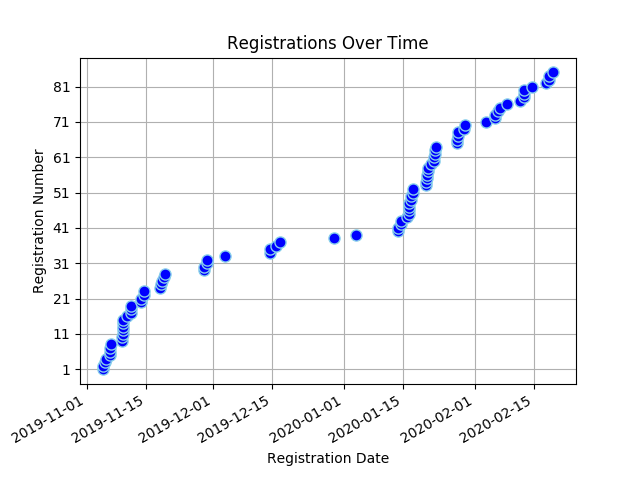
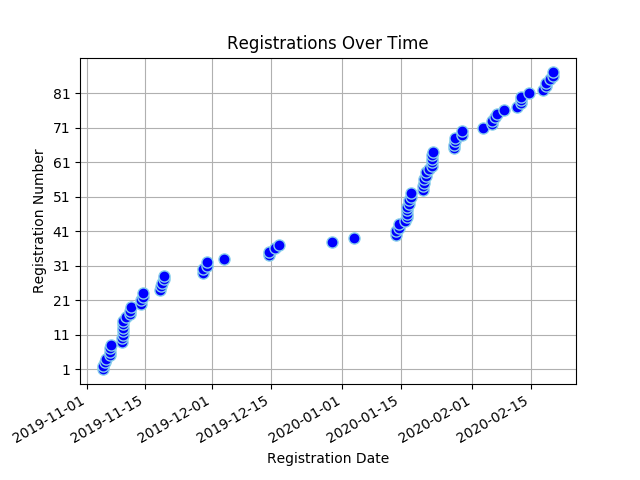
Registree stats backup on Thu Feb 20 08:55:29 SAST 2020

diff --git a/content/registrees/_index.md b/content/registrees/_index.md
@@ -3,7 +3,7 @@ title: Registration Stats
 draft: false
 ---
 
-<ul><li><strong>Number of Registrees</strong>: 85</li>
+<ul><li><strong>Number of Registrees</strong>: 87</li>
 
 <li><strong>Number of Clubs</strong>: 42</li>
 
@@ -30,6 +30,6 @@ draft: false
         </tr>
     </thead>
     <tbody>
-<tr><td>Linda Anderson</td><td>George</td></tr><tr><td>Valencia Beukes</td><td>Kuilsriver</td></tr><tr><td>Lyn Botha</td><td>Cowies Hill</td></tr><tr><td>Annette Bothma</td><td>Fish Hoek</td></tr><tr><td>Jose Braga Borges</td><td>Malmesbury</td></tr><tr><td>Nkandu Chapeshamano</td><td>Rustenburg</td></tr><tr><td>Lynnette Virginia Christians</td><td>Cape Of Good Hope</td></tr><tr><td>Sharon Cottle</td><td>Groote Schuur</td></tr><tr><td>Desiree Du Toit</td><td>Ramsgate</td></tr><tr><td>Charles Flanagan</td><td>Tokai</td></tr><tr><td>Julie Flanagan</td><td>Tokai</td></tr><tr><td>Allison Georges</td><td>Cape Of Good Hope</td></tr><tr><td>Valerie Graham</td><td>Nelspruit</td></tr><tr><td>Michael Graham</td><td>Nelspruit</td></tr><tr><td>Wendy Higgins</td><td>Wilro Park</td></tr><tr><td>Trevor Hobbs</td><td>North Durban</td></tr><tr><td>Avril Hobbs</td><td>North Durban</td></tr><tr><td>Jacqui Hocking</td><td>Midrand</td></tr><tr><td>Cliff Hocking</td><td>Midrand</td></tr><tr><td>Akinyemi Ismaila Tunde</td><td>Alberton</td></tr><tr><td>Dawid Jacobs</td><td>Durbanville</td></tr><tr><td>Jean Jacobs</td><td>Mitchells Plain</td></tr><tr><td>Brenda Joshua</td><td>Cape Of Good Hope</td></tr><tr><td>Charlotte Jubelin</td><td>Cape Of Good Hope</td></tr><tr><td>Pascal Kabangu</td><td>Cape Of Good Hope</td></tr><tr><td>Zwaai Krüger</td><td>Sedgefield</td></tr><tr><td>Bevil Lakay</td><td>Mitchells Plain</td></tr><tr><td>Paula Lang</td><td>Gordons Bay</td></tr><tr><td>James Malcolm Lang</td><td>Gordons Bay</td></tr><tr><td>Heather Lee</td><td>Cape Of Good Hope</td></tr><tr><td>Darrol Lee</td><td>Cape Of Good Hope</td></tr><tr><td>Nick Maré</td><td>Benoni Lakes</td></tr><tr><td>Beaulieu Maré</td><td>Benoni Lakes</td></tr><tr><td>Lance Maytham</td><td>Bredasdorp</td></tr><tr><td>Mark Meltzer</td><td>The Wilds</td></tr><tr><td>Roy Michas</td><td>Midrand</td></tr><tr><td>Dawn Michas</td><td>Midrand</td></tr><tr><td>Patrick Mills</td><td>Centurion</td></tr><tr><td>Bernice Mills</td><td>Centurion</td></tr><tr><td>Brian Moses</td><td>Cape Of Good Hope</td></tr><tr><td>Alain Moulounda</td><td>Cape Of Good Hope</td></tr><tr><td>Tillie Nel</td><td>Eden</td></tr><tr><td>Pieter Nel</td><td>George</td></tr><tr><td>Michael Newlands</td><td>Port Alfred</td></tr><tr><td>Ramona Nulliah</td><td>Durban Host</td></tr><tr><td>Gary Nulliah</td><td>Durban Host</td></tr><tr><td>Jessica Philander</td><td>Cape Of Good Hope</td></tr><tr><td>Gavin Polkinghorne</td><td>Kensington</td></tr><tr><td>Tracey Polkinghorne</td><td>Kensington</td></tr><tr><td>Yvonne  Maureen Poyo</td><td>Cape Of Good Hope</td></tr><tr><td>Karin Preston</td><td>Durban South</td></tr><tr><td>Mark Rossouw</td><td>Tokai</td></tr><tr><td>Sharon Sampie</td><td>Bergvliet</td></tr><tr><td>Pinky Serobatse</td><td>(Partner in Service)</td></tr><tr><td>Susanna Helena Smit</td><td>Centurion</td></tr><tr><td>Herman Smit</td><td>Swellendam</td></tr><tr><td>Berdine Smit</td><td>(Partner in Service)</td></tr><tr><td>Bennie Smith</td><td>Wellington</td></tr><tr><td>Rochelle Smith</td><td>Cape Of Good Hope</td></tr><tr><td>Jeff Smith</td><td>Port Shepstone</td></tr><tr><td>Pierre Theron</td><td>Midrand</td></tr><tr><td>Moira Theron</td><td>Midrand</td></tr><tr><td>Alex Tshikala</td><td>Athlone</td></tr><tr><td>Alistair Tuckett</td><td>Roodepoort Clearwater Cyber</td></tr><tr><td>Gail Tuckett</td><td>Roodepoort Clearwater Cyber</td></tr><tr><td>Rowan Tuckett</td><td>Roodepoort Clearwater Cyber</td></tr><tr><td>Neville Van Rensburg</td><td>Moorreesburg</td></tr><tr><td>Yolandi Van der Schyf</td><td>Midrand</td></tr><tr><td>Keith Weston</td><td>Scottburgh</td></tr><tr><td>Barbara Weston</td><td>Scottburgh</td></tr><tr><td>Joyce Wilcocks</td><td>Pretoria Jakaranda</td></tr><tr><td>Richard Williams</td><td>(Partner in Service)</td></tr><tr><td>Owolabi Williams Monzur</td><td>Badagry</td></tr><tr><td>Geila Wills</td><td>Cape Town</td></tr><tr><td>Patricia Wilson</td><td>Kingsburgh</td></tr><tr><td>Judy Young</td><td>Durbanville</td></tr><tr><td>Sydney van Heerden</td><td>Wilro Park</td></tr><tr><td>Sandy van Heerden</td><td>Wilro Park</td></tr><tr><td>Deon van Wulven</td><td>Tygerberg Hills</td></tr><tr><td>Lindie van Wyk</td><td>Pretoria Jakaranda</td></tr><tr><td>Vicki van Wyk</td><td>North Durban</td></tr><tr><td>Kim van Wyk</td><td>North Durban</td></tr><tr><td>Patricia van Wyk</td><td>Pretoria Jakaranda</td></tr><tr><td>Willie van Wyk</td><td>Midrand</td></tr><tr><td>Martha Maria van der Merwe</td><td>Malmesbury</td></tr>
+<tr><td>Linda Anderson</td><td>George</td></tr><tr><td>Valencia Beukes</td><td>Kuilsriver</td></tr><tr><td>Lyn Botha</td><td>Cowies Hill</td></tr><tr><td>Annette Bothma</td><td>Fish Hoek</td></tr><tr><td>Jose Braga Borges</td><td>Malmesbury</td></tr><tr><td>Nkandu Chapeshamano</td><td>Rustenburg</td></tr><tr><td>Lynnette Virginia Christians</td><td>Cape Of Good Hope</td></tr><tr><td>Sharon Cottle</td><td>Groote Schuur</td></tr><tr><td>Desiree Du Toit</td><td>Ramsgate</td></tr><tr><td>Charles Flanagan</td><td>Tokai</td></tr><tr><td>Julie Flanagan</td><td>Tokai</td></tr><tr><td>Allison Georges</td><td>Cape Of Good Hope</td></tr><tr><td>Valerie Graham</td><td>Nelspruit</td></tr><tr><td>Michael Graham</td><td>Nelspruit</td></tr><tr><td>Wendy Higgins</td><td>Wilro Park</td></tr><tr><td>Trevor Hobbs</td><td>North Durban</td></tr><tr><td>Avril Hobbs</td><td>North Durban</td></tr><tr><td>Jacqui Hocking</td><td>Midrand</td></tr><tr><td>Cliff Hocking</td><td>Midrand</td></tr><tr><td>Akinyemi Ismaila Tunde</td><td>Alberton</td></tr><tr><td>Dawid Jacobs</td><td>Durbanville</td></tr><tr><td>Jean Jacobs</td><td>Mitchells Plain</td></tr><tr><td>Brenda Joshua</td><td>Cape Of Good Hope</td></tr><tr><td>Marco Joubert</td><td>Alberton</td></tr><tr><td>Charlotte Jubelin</td><td>Cape Of Good Hope</td></tr><tr><td>Pascal Kabangu</td><td>Cape Of Good Hope</td></tr><tr><td>Zwaai Krüger</td><td>Sedgefield</td></tr><tr><td>Bevil Lakay</td><td>Mitchells Plain</td></tr><tr><td>Paula Lang</td><td>Gordons Bay</td></tr><tr><td>James Malcolm Lang</td><td>Gordons Bay</td></tr><tr><td>Heather Lee</td><td>Cape Of Good Hope</td></tr><tr><td>Darrol Lee</td><td>Cape Of Good Hope</td></tr><tr><td>Nick Maré</td><td>Benoni Lakes</td></tr><tr><td>Beaulieu Maré</td><td>Benoni Lakes</td></tr><tr><td>Lance Maytham</td><td>Bredasdorp</td></tr><tr><td>Mark Meltzer</td><td>The Wilds</td></tr><tr><td>Roy Michas</td><td>Midrand</td></tr><tr><td>Dawn Michas</td><td>Midrand</td></tr><tr><td>Patrick Mills</td><td>Centurion</td></tr><tr><td>Bernice Mills</td><td>Centurion</td></tr><tr><td>Brian Moses</td><td>Cape Of Good Hope</td></tr><tr><td>Alain Moulounda</td><td>Cape Of Good Hope</td></tr><tr><td>Tillie Nel</td><td>Eden</td></tr><tr><td>Pieter Nel</td><td>George</td></tr><tr><td>Michael Newlands</td><td>Port Alfred</td></tr><tr><td>Ramona Nulliah</td><td>Durban Host</td></tr><tr><td>Gary Nulliah</td><td>Durban Host</td></tr><tr><td>Jessica Philander</td><td>Cape Of Good Hope</td></tr><tr><td>Gavin Polkinghorne</td><td>Kensington</td></tr><tr><td>Tracey Polkinghorne</td><td>Kensington</td></tr><tr><td>Yvonne  Maureen Poyo</td><td>Cape Of Good Hope</td></tr><tr><td>Karin Preston</td><td>Durban South</td></tr><tr><td>Mark Rossouw</td><td>Tokai</td></tr><tr><td>Sharon Sampie</td><td>Bergvliet</td></tr><tr><td>Pinky Serobatse</td><td>(Partner in Service)</td></tr><tr><td>Susanna Helena Smit</td><td>Centurion</td></tr><tr><td>Herman Smit</td><td>Swellendam</td></tr><tr><td>Berdine Smit</td><td>(Partner in Service)</td></tr><tr><td>Bennie Smith</td><td>Wellington</td></tr><tr><td>Rochelle Smith</td><td>Cape Of Good Hope</td></tr><tr><td>Jeff Smith</td><td>Port Shepstone</td></tr><tr><td>Pierre Theron</td><td>Midrand</td></tr><tr><td>Moira Theron</td><td>Midrand</td></tr><tr><td>Alex Tshikala</td><td>Athlone</td></tr><tr><td>Alistair Tuckett</td><td>Roodepoort Clearwater Cyber</td></tr><tr><td>Gail Tuckett</td><td>Roodepoort Clearwater Cyber</td></tr><tr><td>Rowan Tuckett</td><td>Roodepoort Clearwater Cyber</td></tr><tr><td>Neville Van Rensburg</td><td>Moorreesburg</td></tr><tr><td>Yolandi Van der Schyf</td><td>Midrand</td></tr><tr><td>Keith Weston</td><td>Scottburgh</td></tr><tr><td>Barbara Weston</td><td>Scottburgh</td></tr><tr><td>Joyce Wilcocks</td><td>Pretoria Jakaranda</td></tr><tr><td>Richard Williams</td><td>(Partner in Service)</td></tr><tr><td>Owolabi Williams Monzur</td><td>Badagry</td></tr><tr><td>Geila Wills</td><td>Cape Town</td></tr><tr><td>Patricia Wilson</td><td>Kingsburgh</td></tr><tr><td>Judy Young</td><td>Durbanville</td></tr><tr><td>Sydney van Heerden</td><td>Wilro Park</td></tr><tr><td>Sandy van Heerden</td><td>Wilro Park</td></tr><tr><td>Deon van Wulven</td><td>Tygerberg Hills</td></tr><tr><td>Janine van Wulven</td><td>Tygerberg Hills</td></tr><tr><td>Lindie van Wyk</td><td>Pretoria Jakaranda</td></tr><tr><td>Vicki van Wyk</td><td>North Durban</td></tr><tr><td>Kim van Wyk</td><td>North Durban</td></tr><tr><td>Patricia van Wyk</td><td>Pretoria Jakaranda</td></tr><tr><td>Willie van Wyk</td><td>Midrand</td></tr><tr><td>Martha Maria van der Merwe</td><td>Malmesbury</td></tr>
 </tbody>
 </table>

diff --git a/content/full_stats/_index.md b/content/full_stats/_index.md
@@ -11,13 +11,13 @@
 <body>
 <h1 style="color: #000000;">Full Registration Stats</h1>
 <ul><li><strong>Number of Registrees</strong><ul>
-<li><strong>Total</strong>: 85</li>
-<li><strong>Lions</strong>: 82</li>
+<li><strong>Total</strong>: 87</li>
+<li><strong>Lions</strong>: 84</li>
 <li><strong>Partners In Service</strong>: 3</li>
 </ul>
 <li><strong>Number of Clubs</strong>: 42</li>
 <li><strong>Club With Most Attendees</strong>: Cape Of Good Hope (12 registrees)</li>
-<li><strong>Registrations</strong></li><ul><li><strong>Full</strong>: 84
+<li><strong>Registrations</strong></li><ul><li><strong>Full</strong>: 86
 <li><strong>Banquet</strong>: 1
 <li><strong>Convention</strong>: 0
 <li><strong>Theme</strong>: 1
@@ -32,9 +32,9 @@
 <li><strong>Service Project</strong>: 19
 <li><strong>Partner Program</strong>: 3
 </ul>
-<li><strong>Total Owed:</strong> R113125.00</li>
+<li><strong>Total Owed:</strong> R115695.00</li>
 <li><strong>Paid:</strong> R45980.00</li>
-<li><strong>Still Owed:</strong> R67145.00</li>
+<li><strong>Still Owed:</strong> R69715.00</li>
 <li><strong>Dietary Requirements</strong></li><ul>
 <li>Allergic to Shellfish</li>
 <li>Allergic to cheese and cream</li>
@@ -329,6 +329,17 @@ StillOwed
 <td>1340.00</td>
 <td>300.00</td>
 <td>1040.00</td>
+</tr>
+
+    
+<tr style="background-color: yellow">
+<td>99</td>
+<td>Marco Joubert</td>
+<td>Alberton</td>
+<td>Lion Marco Joubert</td>
+<td>1285.00</td>
+<td>0.00</td>
+<td>1285.00</td>
 </tr>
 
     
@@ -945,6 +956,17 @@ StillOwed
 <td>1285.00</td>
 <td>1285.00</td>
 <td>0.00</td>
+</tr>
+
+    
+<tr style="background-color: yellow">
+<td>98</td>
+<td>Janine van Wulven</td>
+<td>Tygerberg Hills</td>
+<td>Lion Janine van Wulven</td>
+<td>1285.00</td>
+<td>0.00</td>
+<td>1285.00</td>
 </tr>
 
     
